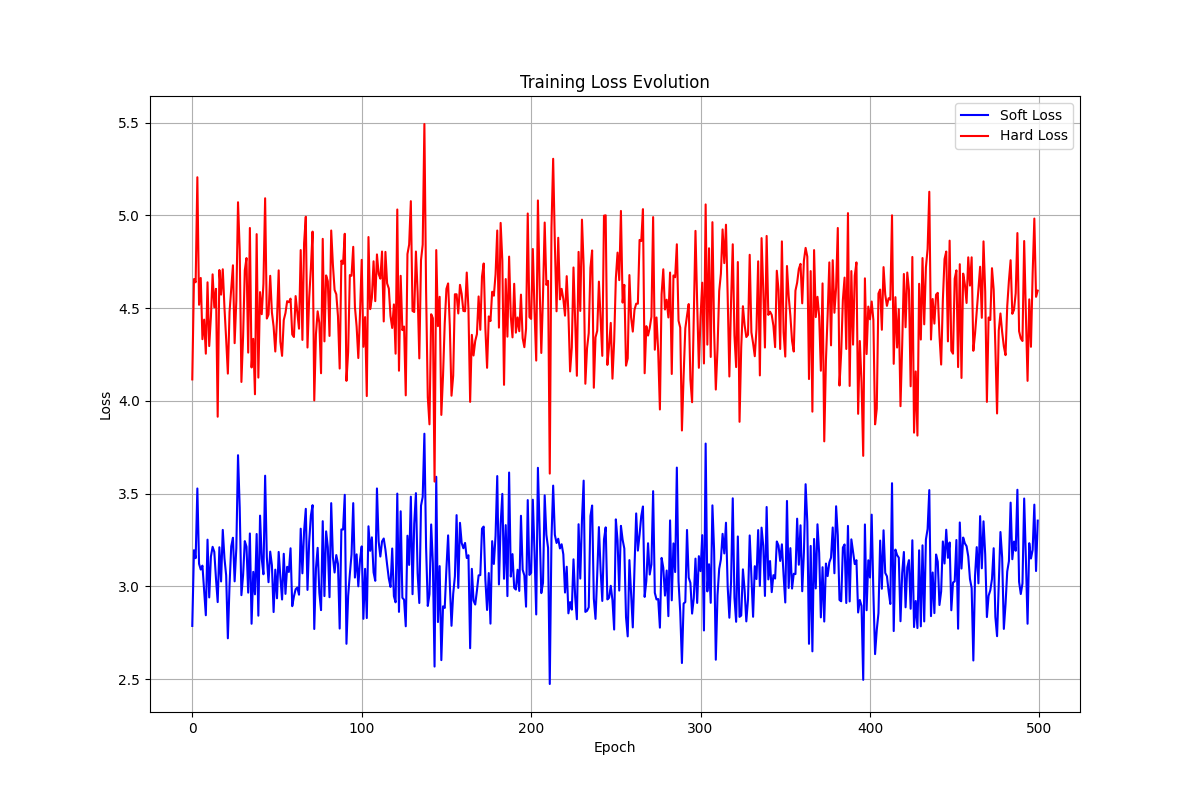
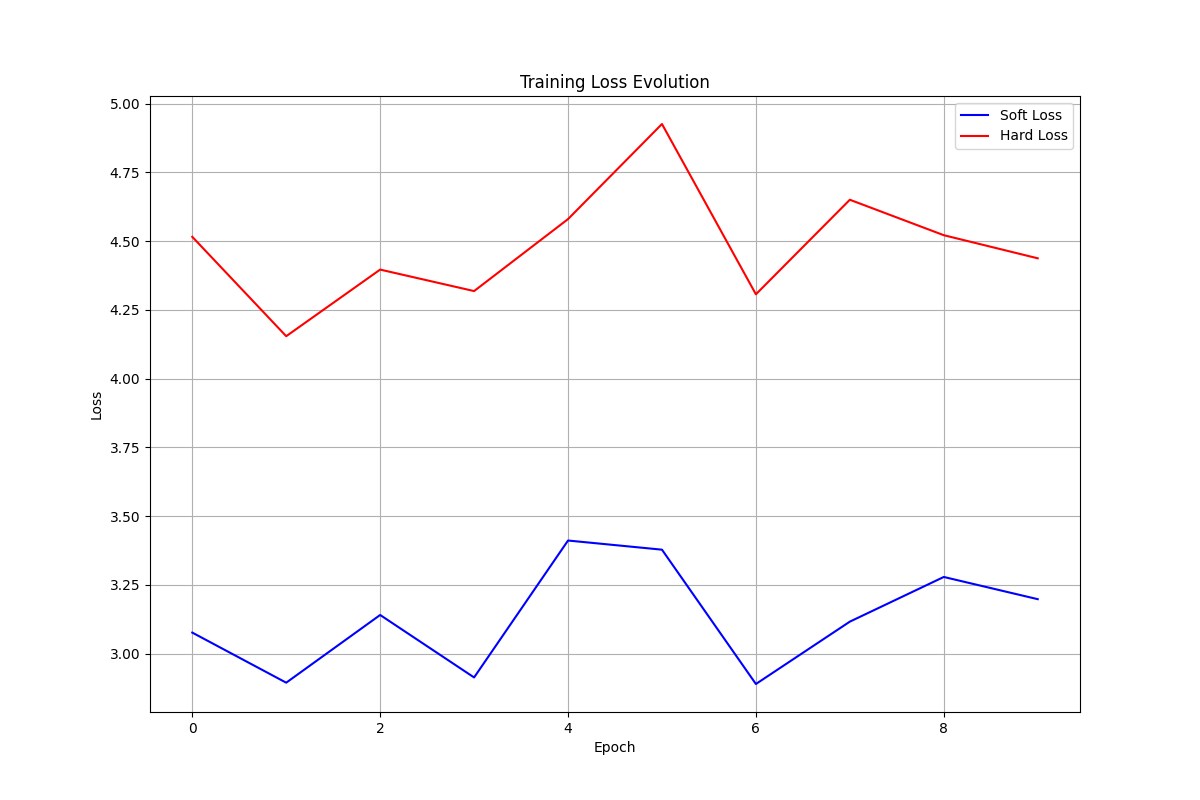
Update hyperparameters and epochs behaviours
Add dynamic temperature
Add dynamic learning rate

diff --git a/train_optimized.py b/train_optimized.py
@@ -174,6 +174,8 @@ def train_gol_model(epochs=200, learning_rate=0.001, batch_size = 64, temperatur
     # Initialize loss tracker
     loss_tracker = LossTracker()
     
+    min_temperature = 0.02    # Don't go below this
+
     print(f"Training for {epochs} epochs...")
     start_time = time.time()
     
@@ -185,8 +187,20 @@ def train_gol_model(epochs=200, learning_rate=0.001, batch_size = 64, temperatur
         epoch_start = time.time()
         for epoch in range(epochs):
             
+            # Slower initial learning rate with gradual increase
+            learning_rate = learning_rate * (1.0 + 0.005 * epoch)
+            learning_rate = min(learning_rate, 0.2)  # Cap at 0.2         
+
+            # Calculate decaying temperature
+            current_temperature = max(
+                temperature * (1.0 - epoch / (epochs * 0.8)),  # Decay over 80% of training
+                min_temperature
+            )
+
+            # Set the temperature for this epoch
+            ca.set_temperature(current_temperature)
             # Call the train_epoch method (to be implemented in Rust)
-            soft_loss, hard_loss = ca.train_epoch(configs, targets, learning_rate)                      
+            soft_loss, hard_loss = ca.train_epoch(configs, targets, learning_rate, epoch)                      
             
             # Update loss tracker
             loss_tracker.update(epoch, soft_loss, hard_loss)
@@ -237,9 +251,9 @@ def train_gol_model(epochs=200, learning_rate=0.001, batch_size = 64, temperatur
 
 if __name__ == "__main__":
     parser = argparse.ArgumentParser(description='Train a DiffLogic CA to learn Game of Life rules')
-    parser.add_argument('--epochs', type=int, default=500, help='Number of training epochs')
-    parser.add_argument('--lr', type=float, default=0.25, help='Learning rate')
-    parser.add_argument('--batchsize', type=int, default=16, help='Batch size')
+    parser.add_argument('--epochs', type=int, default=1000, help='Number of training epochs')
+    parser.add_argument('--lr', type=float, default=0.01, help='Learning rate')
+    parser.add_argument('--batchsize', type=int, default=64, help='Batch size')
     parser.add_argument('--tmp', type=float, default=0.05, help='Temperature')
     parser.add_argument('--l2', type=float, default=0.001, help='L2 regularisation strength')
     parser.add_argument('--visualize', action='store_true', help='Visualize evaluation results')

diff --git a/src/lib.rs b/src/lib.rs
@@ -195,8 +195,8 @@ impl LogicGate {
     pub fn update_probabilities(&mut self, gradient: f32, learning_rate: f32, a: f32, b: f32, l2_strength: f32, temperature: f32) {
         
         // detect if we're stuck
-        let is_dominated = self.probability.iter().any(|&p| p > 0.4);
-        let needs_reset = is_dominated && rand::random::<f32>() < 0.05;
+        let is_dominated = self.probability.iter().any(|&p| p > 0.9);
+        let needs_reset = is_dominated && rand::random::<f32>() < 0.01;
 
         if needs_reset {
             // Reset this gate's probabilities
